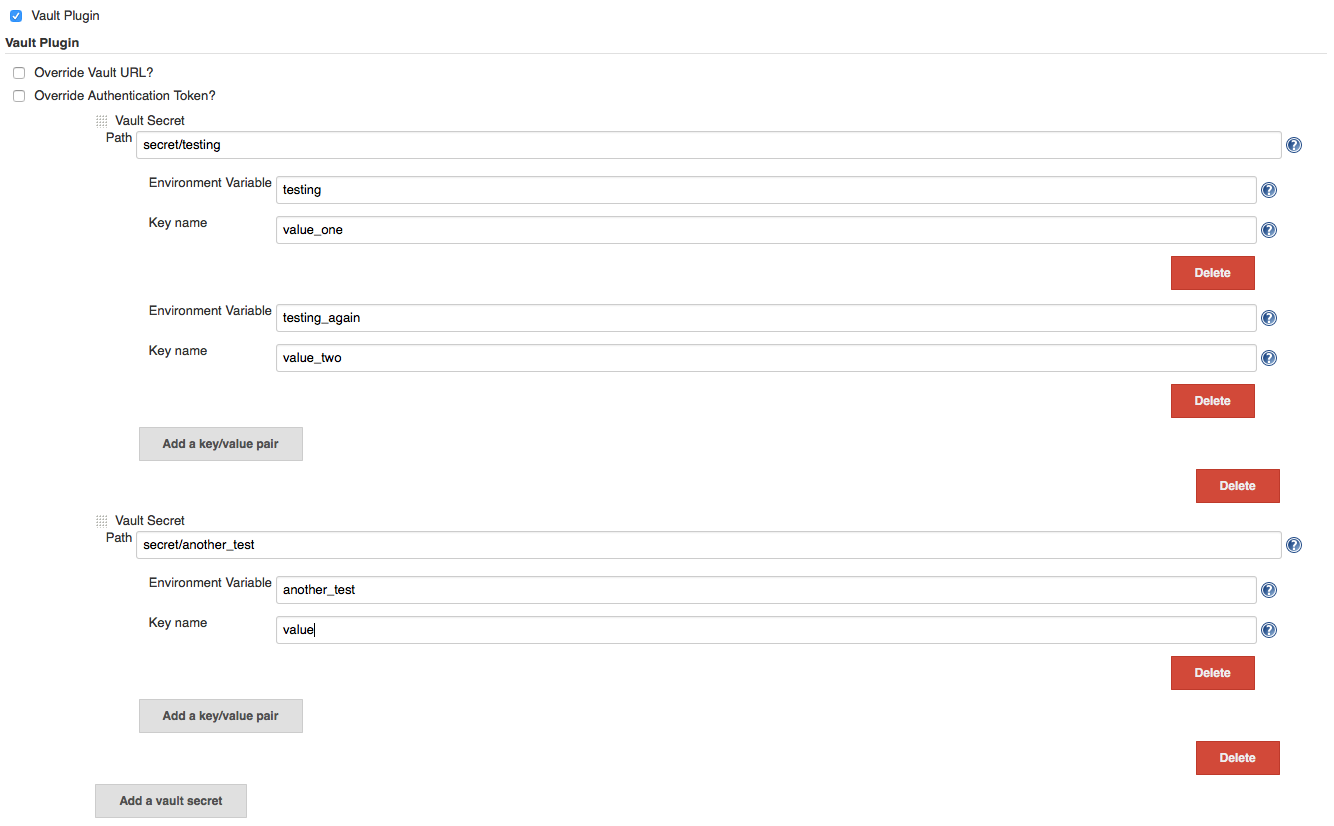
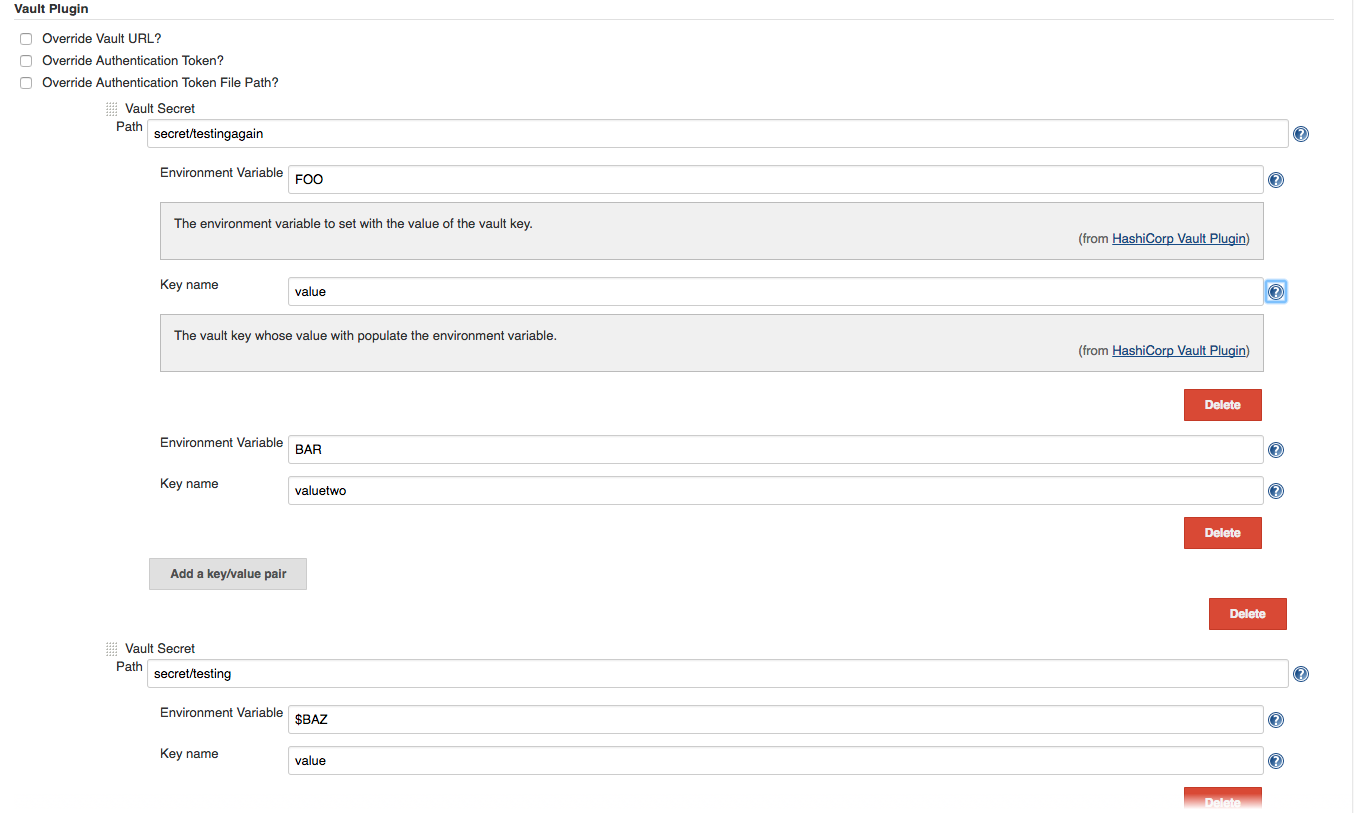
Prep for release 1.4

diff --git a/src/main/resources/com/datapipe/jenkins/vault/VaultBuildWrapper/help-tokenFilePath.html b/src/main/resources/com/datapipe/jenkins/vault/VaultBuildWrapper/help-tokenFilePath.html
@@ -1,0 +1,3 @@
+<div>
+  Filesystem path to a file containing the vault token to authenticate with. This only has any effect if a credential is not set for the vault token.
+</div>

diff --git a/src/main/resources/com/datapipe/jenkins/vault/VaultBuildWrapper/help-authTokenCredentialId.html b/src/main/resources/com/datapipe/jenkins/vault/VaultBuildWrapper/help-authTokenCredentialId.html
@@ -1,0 +1,3 @@
+<div>
+  The token to use to authenticate to the vault server. This overrides the use of specifying a filesystem path.
+</div>

diff --git a/README.md b/README.md
@@ -4,7 +4,7 @@ This plugin adds a build wrapper to set environment variables from a HashiCorp [
 
 ## Caveats
 
-If using the AWS secret backend for vault you need to make sure you give some time for the IAM credentials to become active. For example, a build job may look like the following:
+If using the AWS secret backend for vault you need to make sure you give some time for the IAM credentials to become active (unless using STS). For example, a build job may look like the following:
 
 ```
 sleep 5 && aws ec2 describe-instances
@@ -12,7 +12,7 @@ sleep 5 && aws ec2 describe-instances
 
 ## Build Wrapper Usage
 
-The Vault plugin allows you to define the vault server URL as well as the root token via global configuration.
+The Vault plugin allows you to define the vault server URL as well as a credential for the root token OR a path to a file that contains the token. If a credential is specified then the file will not be used.
 
 ![Global Configuration][global_configuration]
 
@@ -46,12 +46,16 @@ node {
 
 ## TODO
 
-* [JENKINS-37201 - Do not store retrived secrets in build.xml](https://issues.jenkins-ci.org/browse/JENKINS-37201)
 * [JENKINS-37203 - Override Authentication Token?" do not work](https://issues.jenkins-ci.org/browse/JENKINS-37203)
 * Add a [BuildStep](http://javadoc.jenkins-ci.org/hudson/tasks/BuildStep.html) for use as an alternative to the Build Wrapper.
 
 ## CHANGELOG
 
+* **2017/04/10** - Feature Release - 1.4
+  * Support reading Vault Token from file on disk [JENKINS-37713](issues.jenkins-ci.org/browse/JENKINS-37713)
+  * Using credentials plugin for authentication token [JENKINS-38646](issues.jenkins-ci.org/browse/JENKINS-38646)
+* **2017/03/03** - Feature Release - 1.3
+  * Vault Plugin should mask credentials in build log [JENKINS-39383](issues.jenkins-ci.org/browse/JENKINS-39383)
 * **2016/08/15** - Re-release due to failed maven release - 1.2
 * **2016/08/11** - Bugfix release - 1.1
   * Refactor to allow getting multiple vault keys in a single API call [JENKINS-37151](https://issues.jenkins-ci.org/browse/JENKINS-37151)
